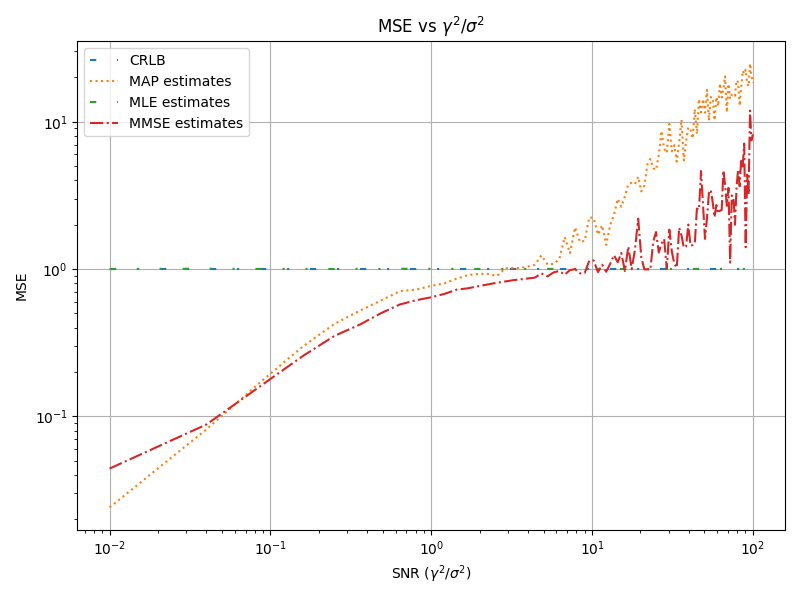
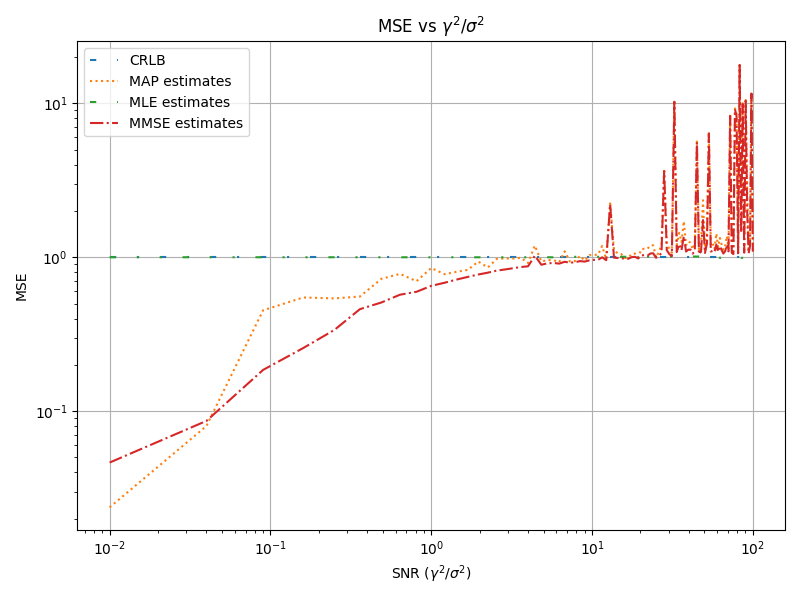
more parallel for simple case

diff --git a/parallel_compute_mml.py b/parallel_compute_mml.py
@@ -4,15 +4,20 @@ matplotlib.use('agg') # fix pyplot hangs in wsl2 https://github.com/matplotlib/m
 import matplotlib.pyplot as plt
 import tqdm
 from helpers import *
-from hyperparameters_estimations import gradient_descent_line_search
+from hyperparameters_estimations import gradient_descent_line_search, ml_objective_gamma_sigma
 from multiprocessing import Pool, cpu_count
+import warnings
 
 # Thread-based parallelized computation of Monte Carlo
 # This also uses the MML to estimate sigma and gamma for each run
 
+np.seterr(all="ignore") # MML can result in division by zero, so ignore warnings
+warnings.filterwarnings('ignore') # ignore warnings altogether
+
 sigma = 1
 N_sims = 200
 N_data = 2000
+N_MML_estimates = 5
 
 def compute_for_each_gamma(gamma):
     mse_mle = []
@@ -24,18 +29,27 @@ def compute_for_each_gamma(gamma):
         s = np.random.laplace(scale=gamma, size=N_data)
         x = n + s
 
+        obj_min = np.inf
         gamma_est, sigma_est = -1, -1
-        while gamma_est is None or gamma_est == np.nan or gamma_est < 0 or sigma_est is None or sigma_est == np.nan or sigma_est < 0:
-            # estimate hyper parameters
-            gamma_init = gamma + np.random.randn()
-            while gamma_init < 0:
+        # run MML estimations a few times and pick the pair that maximize the likelihood
+        for _ in range(N_MML_estimates):
+            gamma_est, sigma_est = -1, -1
+            gamma_est_, sigma_est_ = -1, -1
+            while gamma_est_ is None or gamma_est_ == np.nan or gamma_est_ < 0 or sigma_est_ is None or sigma_est_ == np.nan or sigma_est_ < 0:
+                # estimate hyper parameters
                 gamma_init = gamma + np.random.randn()
-                
-            sigma_init = sigma + np.random.randn()
-            while sigma_init < 0:
+                while gamma_init < 0:
+                    gamma_init = gamma + np.random.randn()
+                    
                 sigma_init = sigma + np.random.randn()
+                while sigma_init < 0:
+                    sigma_init = sigma + np.sqrt(0.1)*np.random.randn() # variance 0.1
 
-            gamma_est, sigma_est = gradient_descent_line_search(gamma_init, sigma_init, x, steps=50, default_alpha=0.001)
+                gamma_est_, sigma_est_ = gradient_descent_line_search(gamma_init, sigma_init, x, steps=50, default_alpha=0.001)
+            obj = ml_objective_gamma_sigma([gamma_est_, sigma_est_], x)
+            if obj < obj_min:
+                obj_min = obj
+                gamma_est, sigma_est = gamma_est_, sigma_est_
 
         s_mle = mle_estimate(x)
         s_map = map_estimate(x, sigma_est, gamma_est)
@@ -58,10 +72,12 @@ gamma_list = np.arange(0.1, 10.1, 0.1) # gamma from 0.1 to 10 with 0.1 spacing.
 crlb_ = crlb(sigma, N_data)
 print(f"Detected {cpu_count()} threads")
 print(f"Running Monte Carlo - Gamma on {cpu_count()} thread")
-with Pool(cpu_count()) as pool:
-    result = pool.map(compute_for_each_gamma, gamma_list)
-print(result)
 
+pool = Pool(cpu_count())
+result = list(tqdm.tqdm(pool.imap(compute_for_each_gamma, gamma_list), total=len(gamma_list)))
+
+# print(result)
+print("Done.")
 mse_mle_ret = []
 mse_map_ret = []
 mse_mmse_ret = []

diff --git a/parallel_compute.py b/parallel_compute.py
@@ -18,23 +18,19 @@ def compute_for_each_gamma(gamma):
     mse_map = []
     mse_mmse = []
 
-    for _ in range(N_sims):
-        n = np.random.randn(N_data)*sigma
-        s = np.random.laplace(scale=gamma, size=N_data)
-        x = n + s
+    n = np.random.randn(N_data, N_sims)*sigma
+    s = np.random.laplace(scale=gamma, size=(N_data, N_sims))
+    x = n + s
 
-        s_mle = mle_estimate(x)
-        s_map = map_estimate(x, sigma, gamma)
-        s_mmse = mmse_estimate(x, sigma, gamma)
+    s_mle = mle_estimate(x)
+    s_map = map_estimate(x, sigma, gamma)
+    s_mmse = mmse_estimate(x, sigma, gamma)
 
-        mse_mle.append(mse(s_mle, s))
-        mse_map.append(mse(s_map, s))
-        mse_mmse.append(mse(s_mmse, s))
+    mse_mle = mse(s_mle, s)
+    mse_map = mse(s_map, s)
+    mse_mmse = mse(s_mmse, s)
 
-    mse_mle = np.array(mse_mle)
-    mse_map = np.array(mse_map)
-    mse_mmse = np.array(mse_mmse)
-    return [gamma, np.mean(mse_mle[~np.isnan(mse_mle)]), np.mean(mse_map[~np.isnan(mse_map)]), np.mean(mse_mmse[~np.isnan(mse_mmse)])]
+    return [gamma, np.mean(mse_mle), np.mean(mse_map), np.mean(mse_mmse)]
 
 # Monte Carlo sims - Gamma
 # params
@@ -44,9 +40,10 @@ gamma_list = np.arange(0.1, 10.1, 0.1) # gamma from 0.1 to 10 with 0.1 spacing.
 crlb_ = crlb(sigma, N_data)
 print(f"Detected {cpu_count()} threads")
 print(f"Running Monte Carlo - Gamma on {cpu_count()} thread")
-with Pool(cpu_count()) as pool:
-    result = pool.map(compute_for_each_gamma, gamma_list)
-# print(result)
+
+pool = Pool(cpu_count())
+result = list(tqdm.tqdm(pool.imap(compute_for_each_gamma, gamma_list), total=len(gamma_list)))
+
 print("Done.")
 mse_mle_ret = []
 mse_map_ret = []

diff --git a/helpers.py b/helpers.py
@@ -7,7 +7,7 @@ def crlb(sigma, N):
     return sigma**2
 
 def mse(s_pred, s_true):
-    return np.mean(np.square(s_pred-s_true))
+    return np.nanmean(np.square(s_pred-s_true), axis=0) # compute mean across data axis, ignore nan
 
 def mle_estimate(X):
     return X
